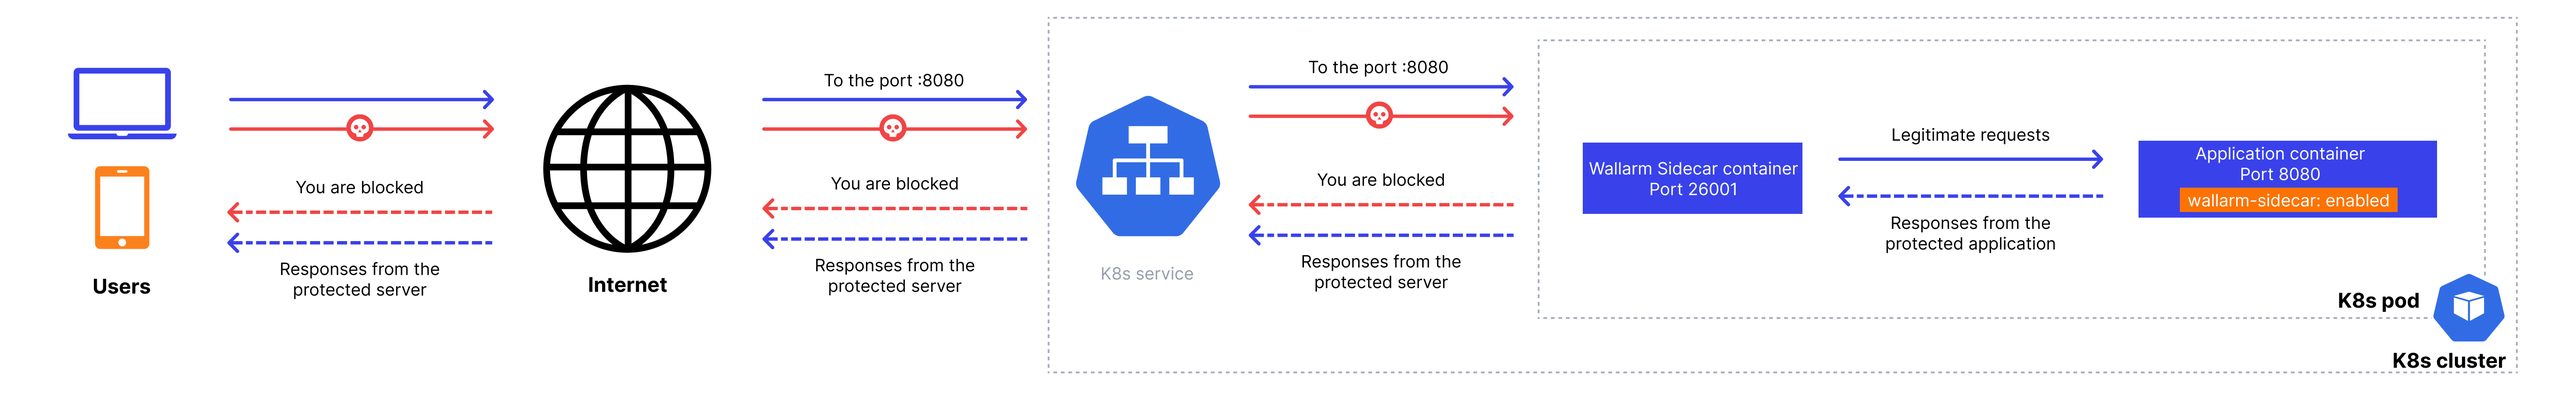
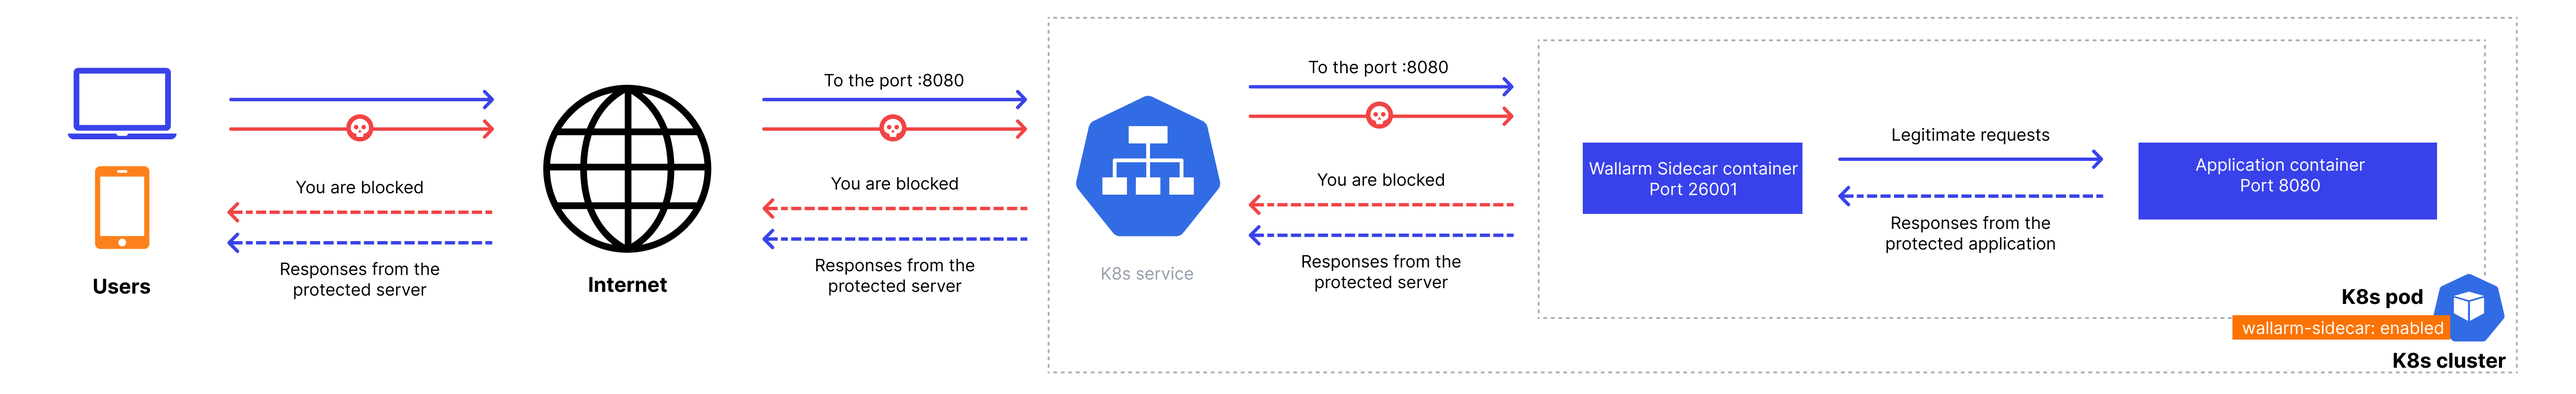
DOCS-1699 more fixes after review

Changed region(s): [[0.8413, 0.3405, 0.9348, 0.5571], [0.8413, 0.7429, 0.9659, 0.8667]]

diff --git a/docs/4.0/waf-installation/kubernetes/sidecar-proxy/deployment.md b/docs/4.0/waf-installation/kubernetes/sidecar-proxy/deployment.md
@@ -39,15 +39,17 @@ Traffic flow with Wallarm Sidecar proxy:
 
 The Wallarm Sidecar proxy solution is arranged by the following Deployment objects:
 
-* **Sidecar controller** (`wallarm-sidecar-controller`) is the [mutating webhook admission controller](https://kubernetes.io/docs/reference/access-authn-authz/admission-controllers/) that:
-
-    1. At the **initial** stage, injects Wallarm sidecar proxy resources into the Pod configuring it based on the Helm chart values and pod annotations and connecting the node components to the Wallarm Cloud.
-    1. At the **runtime** stage, proxies/forwards requests and communicates with postanalytics module.
+* **Sidecar controller** (`wallarm-sidecar-controller`) is the [mutating webhook admission controller](https://kubernetes.io/docs/reference/access-authn-authz/admission-controllers/) that injects Wallarm sidecar proxy resources into the Pod configuring it based on the Helm chart values and pod annotations and connecting the node components to the Wallarm Cloud.
 
     Once a new pod (workload) in Kubernetes starts, the controller automatically injects the additional container into the pod. To start traffic analysis going to the pod, just add labels and annotations to the pod.
 * **Postanalytics module** (`wallarm-sidecar-postanalytics`) is the local data analytics backend for the Wallarm sidecar proxy solution. The module uses the in-memory storage Tarantool and the set of some helper containers (like the collectd, attack export services).
 
 ![!Wallarm deployment objects](../../../images/waf-installation/kubernetes/sidecar-controller/deployment-objects.png)
+
+The Wallarm Sidecar proxy has 2 standard stages in its lifecycle:
+
+1. At the **initial** stage, the controller injects Wallarm sidecar proxy resources into the Pod configuring it based on the Helm chart values and pod annotations and connecting the node components to the Wallarm Cloud.
+1. At the **runtime** stage, the solution analyzes and proxies/forwards requests involving the postanalytics module.
 
 ## Requirements
 
@@ -121,7 +123,7 @@ To deploy the Wallarm Sidecar proxy solution:
 For Wallarm to filter application traffic, add the `wallarm-sidecar: enabled` label to the corresponding application Pod:
 
 ```bash
-kubectl edit deployment -n <KUBERNETES_NAMESPACE> <APP_DEPLOYMENT_NAME>
+kubectl edit deployment -n <KUBERNETES_NAMESPACE> <APP_LABEL_VALUE>
 ```
 
 ```yaml hl_lines="15"
@@ -149,8 +151,8 @@ spec:
               containerPort: 80
 ```
 
-* If the `wallarm-sidecar` application Pod label is either set to `disabled` or not explicitly specified, Wallarm does not filter traffic.
-* If the `wallarm-sidecar` application Pod label is set to `enabled`, Wallarm filters incoming traffic.
+* If the `wallarm-sidecar` application Pod label is either set to `disabled` or not explicitly specified, the Wallarm Sidecar container is not injected into a pod and therefore Wallarm does not filter traffic.
+* If the `wallarm-sidecar` application Pod label is set to `enabled`, the Wallarm Sidecar container is injected into a pod and therefore Wallarm filters incoming traffic.
 
 ### Step 4: Test the Wallarm Sidecar proxy operation
 
@@ -173,7 +175,7 @@ To test that the Wallarm Sidecar proxy operates correctly:
 1. Get the application pod details to check the Wallarm sidecar controller has been successfully injected:
 
     ```bash
-    kubectl get pods --selector app=<APP_DEPLOYMENT_NAME>
+    kubectl get pods --selector app=<APP_LABEL_VALUE>
     ```
 
     The output should display **READY: 2/2** pointing to successful sidecar container injection and **STATUS: Running** pointing to successful connection to the Wallarm Cloud:

diff --git a/docs/latest/waf-installation/kubernetes/sidecar-proxy/deployment.md b/docs/latest/waf-installation/kubernetes/sidecar-proxy/deployment.md
@@ -39,15 +39,17 @@ Traffic flow with Wallarm Sidecar proxy:
 
 The Wallarm Sidecar proxy solution is arranged by the following Deployment objects:
 
-* **Sidecar controller** (`wallarm-sidecar-controller`) is the [mutating webhook admission controller](https://kubernetes.io/docs/reference/access-authn-authz/admission-controllers/) that:
-
-    1. At the **initial** stage, injects Wallarm sidecar proxy resources into the Pod configuring it based on the Helm chart values and pod annotations and connecting the node components to the Wallarm Cloud.
-    1. At the **runtime** stage, proxies/forwards requests and communicates with postanalytics module.
+* **Sidecar controller** (`wallarm-sidecar-controller`) is the [mutating webhook admission controller](https://kubernetes.io/docs/reference/access-authn-authz/admission-controllers/) that injects Wallarm sidecar proxy resources into the Pod configuring it based on the Helm chart values and pod annotations and connecting the node components to the Wallarm Cloud.
 
     Once a new pod (workload) in Kubernetes starts, the controller automatically injects the additional container into the pod. To start traffic analysis going to the pod, just add labels and annotations to the pod.
 * **Postanalytics module** (`wallarm-sidecar-postanalytics`) is the local data analytics backend for the Wallarm sidecar proxy solution. The module uses the in-memory storage Tarantool and the set of some helper containers (like the collectd, attack export services).
 
 ![!Wallarm deployment objects](../../../images/waf-installation/kubernetes/sidecar-controller/deployment-objects.png)
+
+The Wallarm Sidecar proxy has 2 standard stages in its lifecycle:
+
+1. At the **initial** stage, the controller injects Wallarm sidecar proxy resources into the Pod configuring it based on the Helm chart values and pod annotations and connecting the node components to the Wallarm Cloud.
+1. At the **runtime** stage, the solution analyzes and proxies/forwards requests involving the postanalytics module.
 
 ## Requirements
 
@@ -121,7 +123,7 @@ To deploy the Wallarm Sidecar proxy solution:
 For Wallarm to filter application traffic, add the `wallarm-sidecar: enabled` label to the corresponding application Pod:
 
 ```bash
-kubectl edit deployment -n <KUBERNETES_NAMESPACE> <APP_DEPLOYMENT_NAME>
+kubectl edit deployment -n <KUBERNETES_NAMESPACE> <APP_LABEL_VALUE>
 ```
 
 ```yaml hl_lines="15"
@@ -149,8 +151,8 @@ spec:
               containerPort: 80
 ```
 
-* If the `wallarm-sidecar` application Pod label is either set to `disabled` or not explicitly specified, Wallarm does not filter traffic.
-* If the `wallarm-sidecar` application Pod label is set to `enabled`, Wallarm filters incoming traffic.
+* If the `wallarm-sidecar` application Pod label is either set to `disabled` or not explicitly specified, the Wallarm Sidecar container is not injected into a pod and therefore Wallarm does not filter traffic.
+* If the `wallarm-sidecar` application Pod label is set to `enabled`, the Wallarm Sidecar container is injected into a pod and therefore Wallarm filters incoming traffic.
 
 ### Step 4: Test the Wallarm Sidecar proxy operation
 
@@ -173,7 +175,7 @@ To test that the Wallarm Sidecar proxy operates correctly:
 1. Get the application pod details to check the Wallarm sidecar controller has been successfully injected:
 
     ```bash
-    kubectl get pods --selector app=<APP_DEPLOYMENT_NAME>
+    kubectl get pods --selector app=<APP_LABEL_VALUE>
     ```
 
     The output should display **READY: 2/2** pointing to successful sidecar container injection and **STATUS: Running** pointing to successful connection to the Wallarm Cloud:

diff --git a/docs/latest/waf-installation/kubernetes/sidecar-proxy/pod-annotations.md b/docs/latest/waf-installation/kubernetes/sidecar-proxy/pod-annotations.md
@@ -65,7 +65,7 @@ To apply annotation to a pod, specify it in the `Deployment` object settings of 
 
 
 ```bash
-kubectl edit deployment -n <KUBERNETES_NAMESPACE> <APP_DEPLOYMENT_NAME>
+kubectl edit deployment -n <KUBERNETES_NAMESPACE> <APP_LABEL_VALUE>
 ```
 
 ```yaml hl_lines="17"
